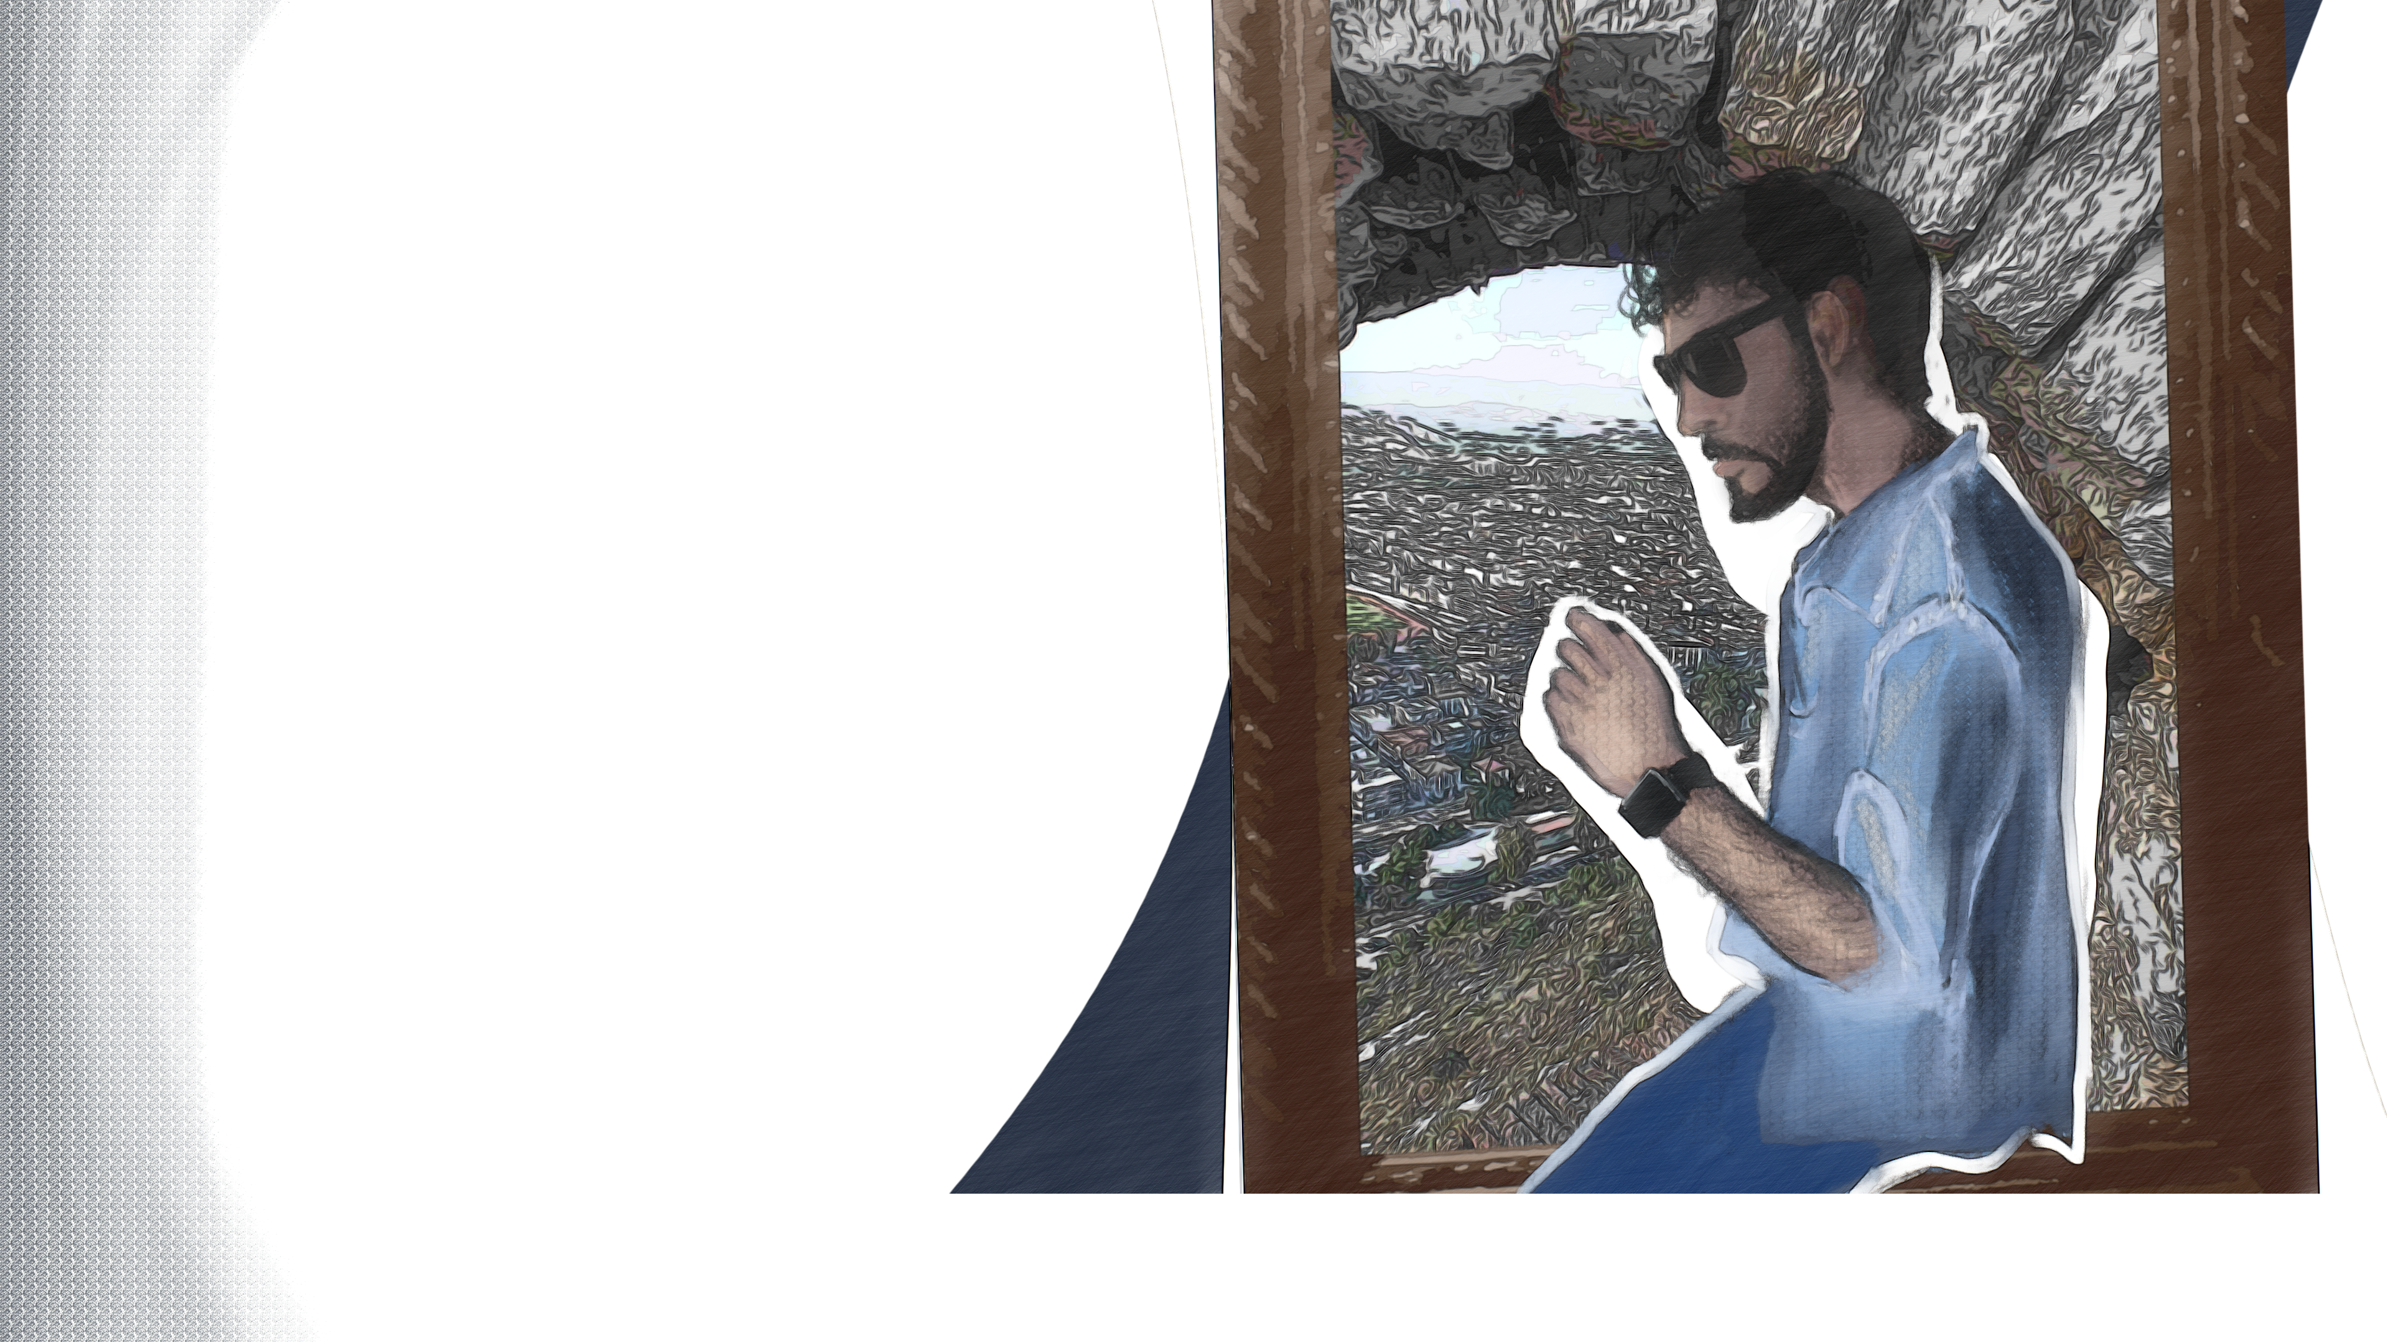
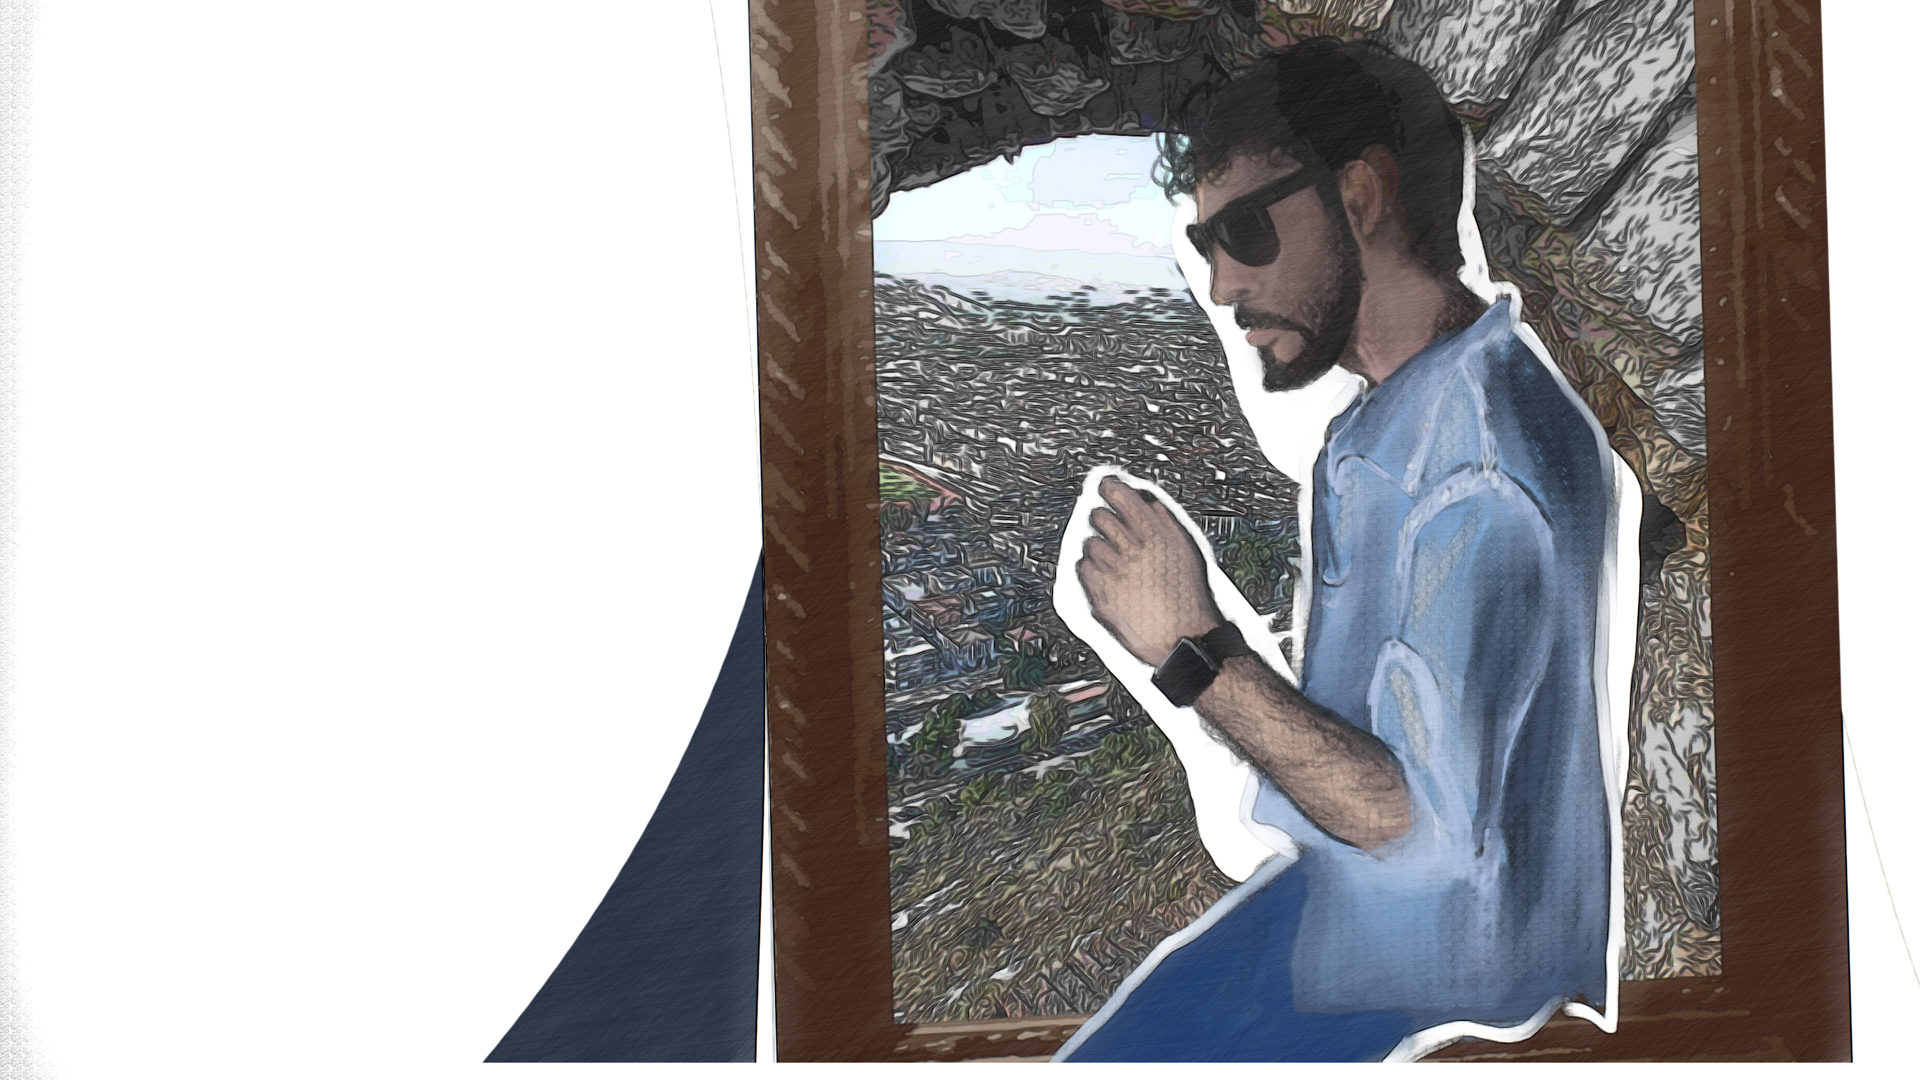
Big responsiveness hotfixes.

diff --git a/index.html b/index.html
@@ -378,7 +378,47 @@
             transform: scale(1.7);
         }
 
-        @media screen and (max-width: 1200px) {
+        .avatarUT, .avatarFHD, .avatarUW {
+            display: none;
+        }
+
+        @media (orientation: portrait) {
+            .forest {
+                background-image: url("res/Portrait UW.png") !important;
+            }
+
+            .hideOnUW {
+                display: none;
+            }
+        }
+
+
+        @media (orientation: landscape) and (max-aspect-ratio: 20/9) {
+            .forest {
+                background-image: url("res/Portrait.png") !important;
+            }
+
+            .avatarFHD {
+                display: block;
+            }
+        }
+
+
+        @media (min-aspect-ratio: 20/9) {
+            .forest {
+                background-image: url("res/Portrait UW.png") !important;
+            }
+
+            .avatarUW {
+                display: block;
+            }
+
+            .hideOnUW {
+                display: none;
+            }
+        }
+
+        @media screen and (max-width: 1919px) {
             /* Base size for phones */
             .icon {
                 transform: scale(1);
@@ -394,10 +434,30 @@
                 transform: scale(0.8);
             }
 
-            .hideOnPhone {
-                display: none !important;
+            .btn-text {
+                font-size: 0.15em !important;
+            }
+        }
+
+        @media screen and (max-width: 1919px) {
+            /* Base size for phones */
+            .icon {
+                transform: scale(1);
             }
 
+            /* Hover state (Note: hover can sometimes stick on touch screens) */
+            .trigger-btn:hover .icon {
+                transform: scale(1.2);
+            }
+
+            /* Active/Tap state */
+            .trigger-btn:active .icon {
+                transform: scale(0.8);
+            }
+
+            .btn-text {
+                font-size: 0.15em !important;
+            }
         }
 
         @media screen and (max-width: 768px) {
@@ -512,12 +572,12 @@
         }
 
         .btn-text {
-            font-size: 0.4em !important; 
-            font-family: 'Courier New', Courier, monospace !important; 
-            margin-top: 8px !important; 
+            font-size: 0.24em !important;
+            font-family: 'Courier New', Courier, monospace !important;
+            margin-top: 8px !important;
             font-weight: bold !important;
             letter-spacing: 1px !important;
-            white-space: nowrap !important; 
+            white-space: nowrap !important;
         }
     </style>
 </head>
@@ -556,12 +616,13 @@
     </div>
 
     <!-- Page content -->
-    <div class="w3-content" style="max-width:8000px;margin-top:0px" , id="main">
+    <div class="w3-content" style="max-width:8000px;margin-top:0px;margin-bottom:0;", id="main">
         <!-- The Home Section -->
-        <div class="w3-center w3-padding-32 forest"
+        <div class="w3-center forest"
              style="color: #fff !important; width: 100%; height: 100vh; min-height: 1100px;" id="home">
 
-            <img class="avatar" src="res/Portrait Subject.png" style="position: absolute; top: 0; left: 0; z-index: 5; pointer-events: none;">
+            <img class="avatar avatarFHD" src="res/Portrait Subject.png" style="position: absolute; top: 0; left: 0; z-index: 5; pointer-events: none;">
+            <img class="avatar avatarUW" src="res/Portrait Subject UW.png" style="position: absolute; top: 0; left: 0; z-index: 5; pointer-events: none;">
             <div style="width: 100%; transform: translate(0%, 50%)">
                 <div>
                     <div class="w3-center" style="width: 100vw; background-color: black; opacity: 0.5">
@@ -579,8 +640,7 @@
                     </div>
                 </div>
             </div>
-            <br />
-            <div style="margin-top: 25vh;"></div>
+            <div style="margin-top: 20vh;"></div>
 
             <div style="display: flex; justify-content: center; flex-wrap: wrap; width: 100%;">
                 <a class="trigger-btn w3-button" onclick="closeCurrentModal()" title="HOME" draggable="false" style="z-index: 4;">
@@ -599,6 +659,9 @@
                     <span class="icon fa fa-envelope w3-xxlarge"><span class="btn-text"> CONNECTIONS</span></span>
                 </a>
                 <a class="trigger-btn w3-button hideOnPhone" draggable="false" style="z-index: 5; visibility: hidden;">
+                    <span class="icon fa fa-envelope w3-xxlarge"><span class="btn-text"> </span></span>
+                </a>
+                <a class="trigger-btn w3-button hideOnPhone hideOnUW" draggable="false" style="z-index: 5; visibility: hidden;">
                     <span class="icon fa fa-envelope w3-xxlarge"><span class="btn-text"> </span></span>
                 </a>
             </div>
